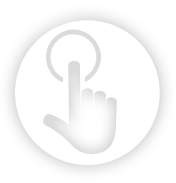
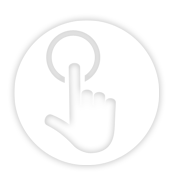
Bug 830644 - [FTU][Hidpi]Support high resolution devices

diff --git a/apps/communications/ftu/css/style.css b/apps/communications/ftu/css/style.css
@@ -72,7 +72,7 @@ html, body {
 }
 
 [role=navigation] button {
-  width: calc((100% - 1rem) / 2);
+  width: calc((100% / 2) - 0.5rem);
   float: left;
   margin-right: 1rem;
   position: relative;
@@ -90,12 +90,12 @@ html, body {
   left: 0;
   position: absolute;
   pointer-events: none;
-  background: url(images/prev.png) no-repeat center center;
+  background: url(images/prev.png) no-repeat center center / 1.1rem;
 }
 
 [role=navigation] button.recommend span {
   left: calc(100% - 3rem);
-  background: url(images/next.png) no-repeat center center;
+  background-image: url(images/next.png);
 }
 
 [role=navigation] #wifi-join-button {
@@ -202,7 +202,8 @@ html, body {
   z-index: 3000;
   transition: all 1s ease;
   background-image: url(/shared/resources/branding/powered.png);
-  background-size: 100% auto;
+  background-size: cover;
+  background-position: center top;
 }
 
 #splash-screen.show {
@@ -329,7 +330,7 @@ html, body {
 
 #wifi #no-result-container {
   position: absolute;
-  background: url('images/wifi_icon.png') no-repeat fixed center;
+  background: url('images/wifi_icon.png') no-repeat fixed center / 23.6rem;
   height: 100%;
   width: 100%;
 }
@@ -354,7 +355,8 @@ html, body {
 aside.wifi-icon {
   background-repeat: no-repeat;
   background-position: 0 center;
-  width: 3rem;
+  background-size: 16rem;
+  width: 3.2rem;
 }
 aside.wifi-signal       { background-image: url(images/wifi_disconnected_sprite.png);}
 aside.connected         { background-image: url(images/wifi_connected_sprite.png);}
@@ -475,6 +477,7 @@ aside.connecting {
   height: calc(100% - 6rem);
   padding: 0 3rem;
   width: calc(100% - 6rem);
+  background-size: 17.6rem;
 }
 
 #finish-screen [role=navigation],#tutorialFinish [role=navigation] {
@@ -483,6 +486,10 @@ aside.connecting {
 
 #finish-screen [role=navigation] button,#tutorialFinish [role=navigation] button {
   text-align: center;
+}
+
+#step1Img, #step2Img, #step3Img, #step4Img, #step5Img {
+  width: 28.9rem;
 }
 
 /*
@@ -497,6 +504,7 @@ aside.connecting {
 #time_zone_overlay {
   background-position: bottom;
   background-repeat: no-repeat;
+  background-size: 100%;
   position: relative;
   position: absolute;
   z-index: 10;
@@ -551,6 +559,7 @@ aside.connecting {
   background-image: url('images/timezone/map.png') ;
   background-position: bottom;
   background-repeat: no-repeat;
+  background-size: 100%;
   position: relative;
   height: 21.5rem;
   width: 100%;
@@ -684,7 +693,7 @@ aside.connecting {
 
 
 #fb_after_import1 {
-  background: url('images/import_fb.png') center left no-repeat;
+  background: url('images/import_fb.png') no-repeat center left /3rem;
 }
 
 #statusMsg.ftu {
@@ -713,8 +722,13 @@ aside.connecting {
   font-size: 1.35rem;
   line-height: 1.8rem;
 }
+
 #welcome_browser #browser_logo_horizontal {
   margin: 1rem 0;
+}
+
+#welcome_browser #browser_logo_horizontal img{
+  max-width: 100%;
 }
 
 #welcome_browser label {
@@ -974,7 +988,7 @@ i.hack-first-child {
 }
 
 [data-type="list"].pack-value-selector li label:not([for]) input:checked + span {
-  background: url("images/checked.png") no-repeat right center;
+  background: url("images/checked.png") no-repeat right center / 100%;
 }
 
 [data-type="list"].pack-value-selector li label:not([for]) input + span + p {
@@ -1064,3 +1078,4 @@ i.hack-first-child {
   width: calc(100% / 5);
   background: #FFFFFF;
 }
+

diff --git a/apps/communications/ftu/index.html b/apps/communications/ftu/index.html
@@ -22,6 +22,8 @@
   <link rel="stylesheet" type="text/css" href="/ftu/css/style.css">
   <link rel="stylesheet" type="text/css" href="/ftu/css/fb_extensions.css">
   <link rel="stylesheet" type="text/css" href="/facebook/style/curtain_frame.css">
+  <!-- HIDPI support -->
+  <link rel="stylesheet" type="text/css" href="/shared/style/responsive.css" >
 
   <title>Welcome to Browser OS</title>
 

diff --git a/shared/style/responsive.css b/shared/style/responsive.css
@@ -50,4 +50,3 @@
   html { font-size: 105%!important; }
 }
 
-
